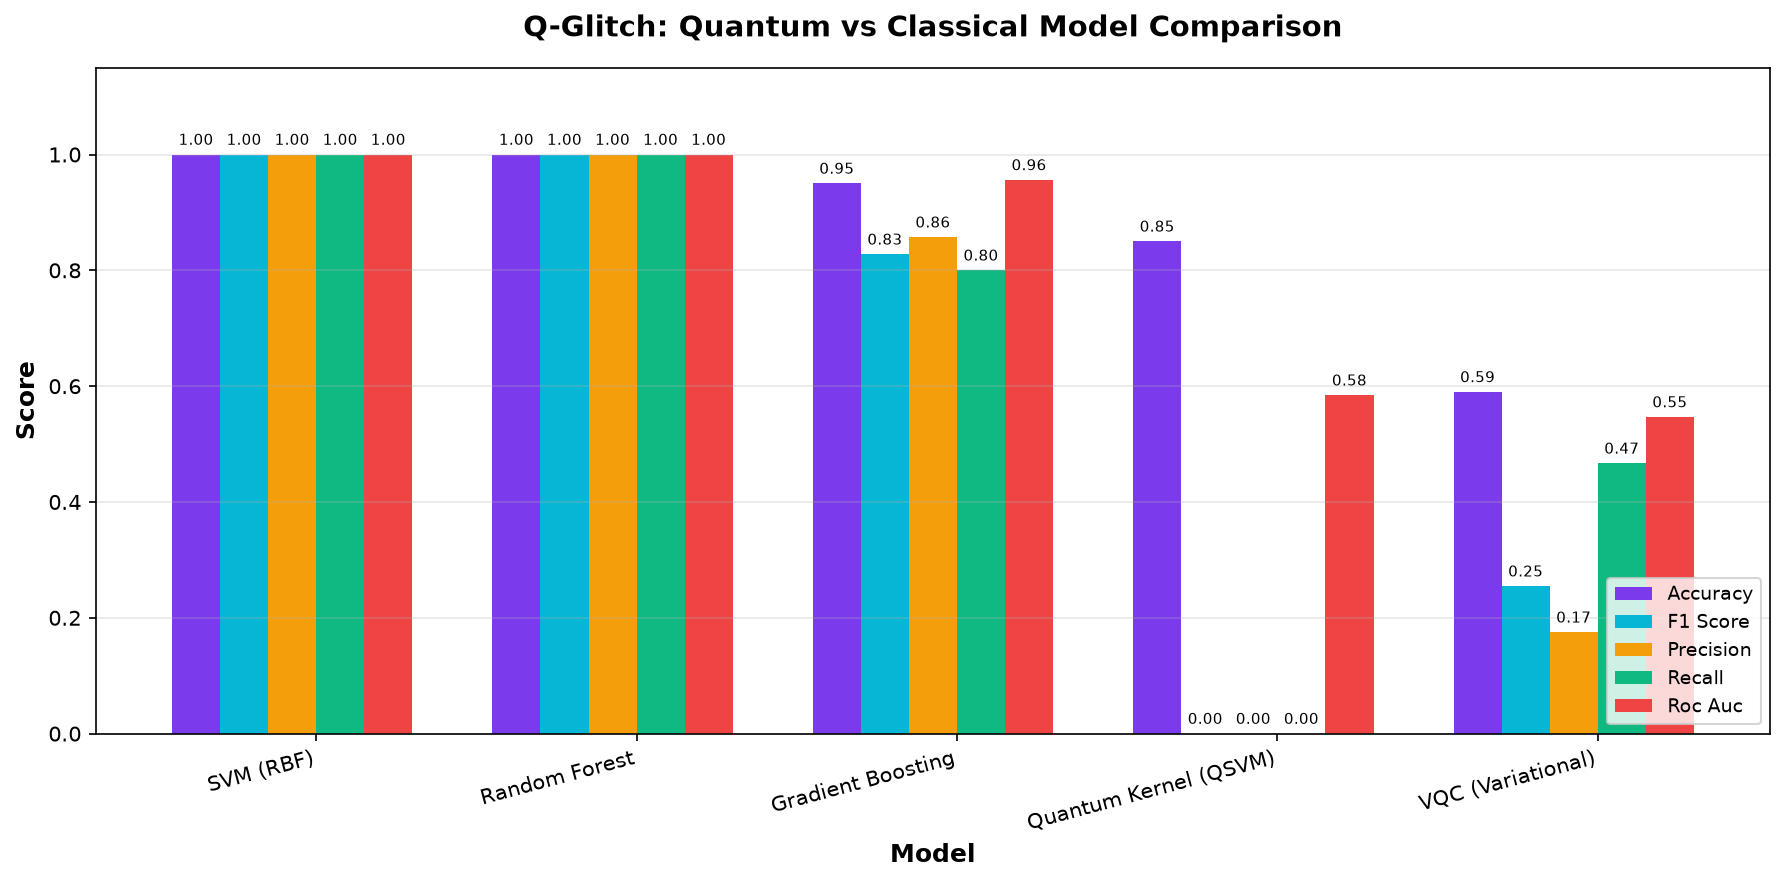
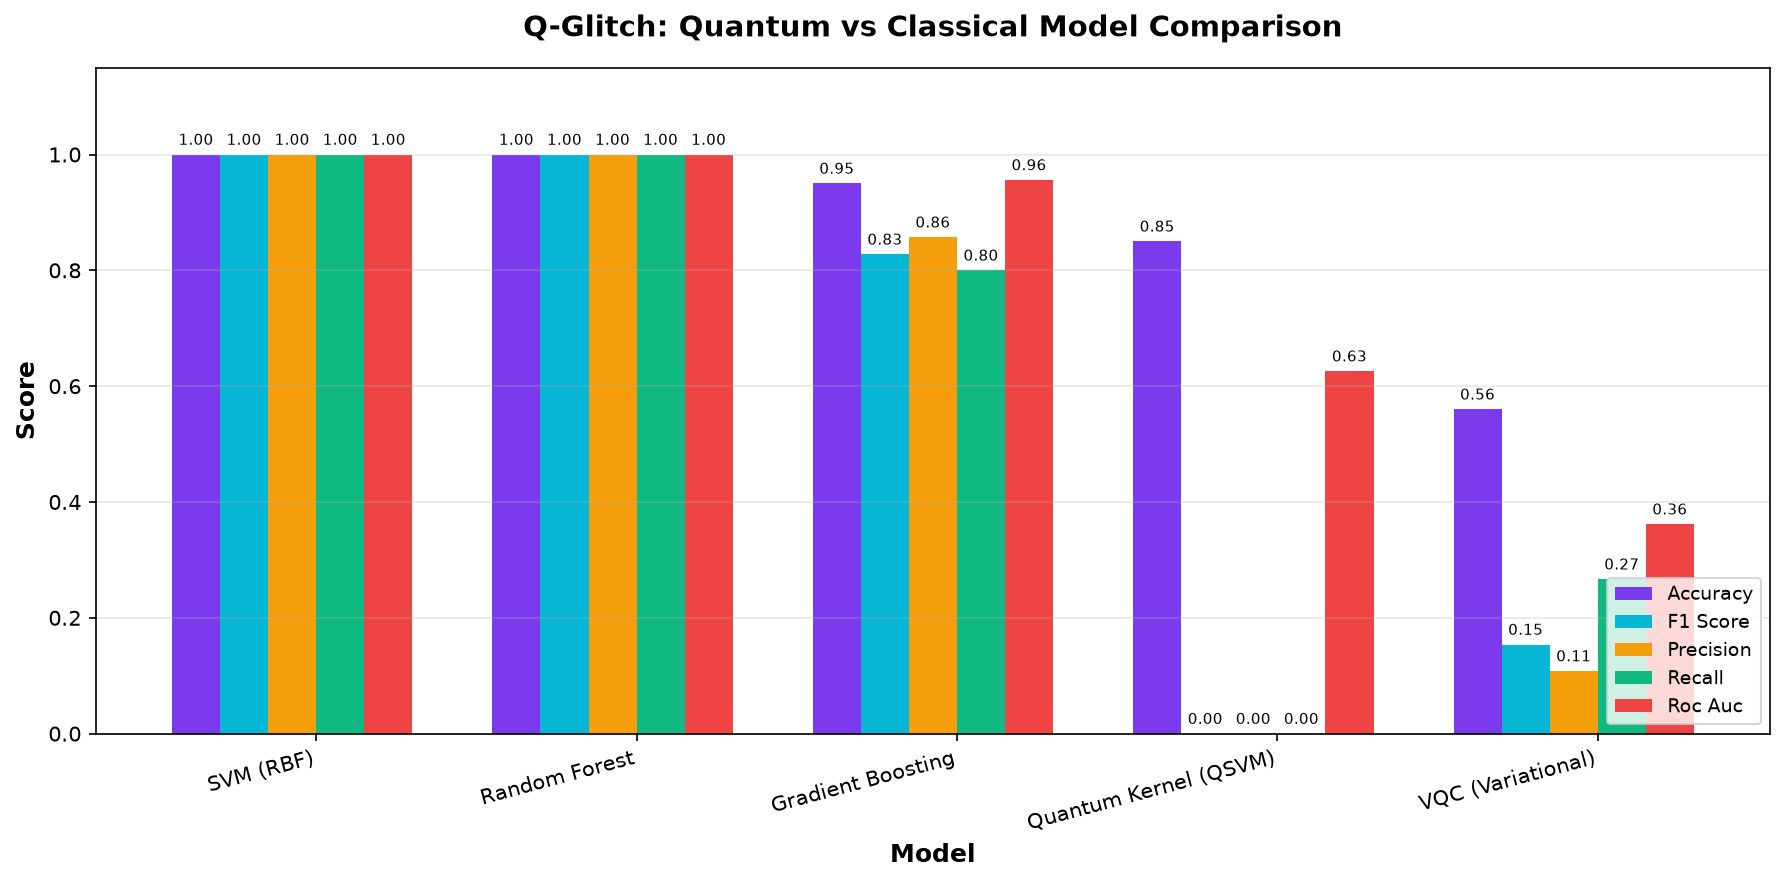
refactor preprocessing normalizer fitting and update quantum model evaluation metrics and bundle

diff --git a/src/preprocessing.py b/src/preprocessing.py
@@ -66,7 +66,10 @@ class DataPreprocessor:
 
         # Step 4: PCA for quantum-compatible dimensionality
         X_selected = self.selector.transform(X_scaled)
-        self.pca.fit(X_selected)
+        X_pca = self.pca.fit_transform(X_selected)
+
+        # Step 5: Fit normalizer to [0, pi] for quantum rotation gates
+        self.normalizer.fit(X_pca)
 
         self._fitted = True
         variance_explained = self.pca.explained_variance_ratio_.sum()
@@ -98,8 +101,8 @@ class DataPreprocessor:
         X_selected = self.selector.transform(X_scaled)
         X_pca = self.pca.transform(X_selected)
 
-        # Normalize to [0, pi] for quantum rotation gates
-        X_quantum = self.normalizer.fit_transform(X_pca)
+        # Transform to [0, pi] for quantum rotation gates
+        X_quantum = np.clip(self.normalizer.transform(X_pca), 0.0, np.pi)
         return X_quantum
 
     def fit_transform(
